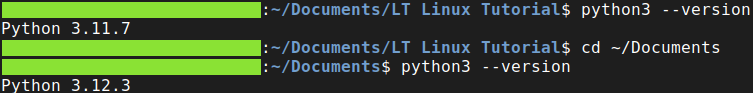
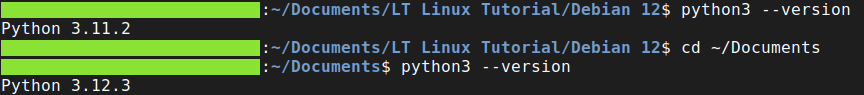
Updated docs to cover new/additional info

Changed region(s): [[0.0, 0.2151, 0.9774, 1.0], [0.0, 0.0215, 1.0, 0.1935]]

diff --git a/docs/source/getting_started/Installation-Linux.md b/docs/source/getting_started/Installation-Linux.md
@@ -23,17 +23,19 @@ Once you've decided where you want the lt-maker repository to live, click on 'Cl
 
 ![GithubDesktop](images/GithubDesktop_CloningFinish.png)
 
-From this screen, you can now also update the engine by clicking the 'Fetch origin' button.
+From this screen, you can now also update the engine by clicking the 'Fetch origin' button, and then pulling the changes. You can also view the changelog by selecting the 'history' tab.
 
->The program may ask for you to sync a github/gitlab account, but this isn't necessary for the use of the software.
+>No github/gitlab account is necessary for the use of this program.
 
 >Make sure the 'Current branch' button always shows the branch name 'master'. Otherwise, you may be running an outdated version that someone used to solve a specific problem or run their own customized lt-maker engine.
 
 ## Installing and setting up the correct Python version for lt-maker
 
-<span style="color: red; font-weight: bold;">LT-maker requires a Python 3.12 environment to work optimally.</span> Most Linux distributions already come with a Python version. Type `python3 --version` in a terminal: if it returns `Python 3.12` and any last number (Linux Mint 22.3 comes with Python 3.12.3, for example), your system's Python will do: skip to [Using your system's Python](#using-your-systems-python).
+><span style="color: red; font-weight: bold;">Important:</span> Certain versions of Linux (primarily Debian, Ubuntu and Ubuntu-based distributions) require that you use `python3` instead of `python` when typing python-based commands. For ease of use, this guide will start all python commands with `python3` going forward. Should this cause errors, you can simply use `python` and mirror the exact commands from there.
 
-Otherwise you need a second Python beside your system's, as you cannot simply replace the one it came with. For this, we can use a tool called 'pyenv'.
+<span style="color: red; font-weight: bold;">LT-maker requires a Python 3.12 environment to work optimally.</span> Most Linux distributions already come with a Python version. Type `python3 --version` in a terminal: if it returns `Python 3.12.##` (Linux Mint 22.3 comes with Python 3.12.3, for example), your system's Python will do: skip to [Using your system's Python](#using-your-systems-python).
+
+Otherwise, you'll need a second Python version. However, you cannot simply replace the one your distribution came with, and running two versions of python unchecked is bound to cause a huge number of issues. In order to solve this problem, we can use a tool called 'pyenv'.
 
 https://github.com/pyenv/pyenv
 
@@ -53,7 +55,7 @@ To make sure your main system is unaffected, open a normal terminal window and t
 
 ![PyTerminalVisual](images/PyTerminalVisual.png)
 
-Now skip to [Installing Pip](#installing-pip).
+You can skip the next paragraph and continue with [Installing Pip](#installing-pip).
 
 ## Using your system's Python
 
@@ -64,7 +66,7 @@ python3 -m venv venv
 source venv/bin/activate
 ```
 
-On Debian, Ubuntu and Mint, the first command may ask you to install the `python3-venv` package first (`sudo apt install python3-venv`). Type `source venv/bin/activate` again in each new terminal window before installing packages or starting LT-maker. In that window, `python3` is then the virtual environment's Python.
+On Debian, Ubuntu or other Ubuntu-based distributions, the first command may ask you to install the `python3-venv` package first (`sudo apt install python3-venv`). Type `source venv/bin/activate` again in each new terminal window before installing packages or starting LT-maker. In that window, `python3` is then the virtual environment's Python, instead of being system-wide. If you did this correctly, every command entry line should start with `(venv)`.
 
 ## Installing Pip
 
@@ -72,11 +74,9 @@ Pip is the Python package manager, and is a requirement for installing the engin
 
 https://pip.pypa.io/en/stable/installation/#
 
->Note that some distributions require you to substitute instructions starting with `python` to `python3` while installing pip.
-
 ## Installing engine dependencies
 
-Next, you need to install some extra dependencies. These can be found in the `requirements_editor.txt` To install them, open a terminal window <span style="color: red; font-weight: bold;">inside of the lt-maker folder</span> and type the following commands:
+Next, you need to install some extra dependencies. These can be found in the `requirements_editor.txt` To install them, open a terminal window <span style="color: red; font-weight: bold;">inside of the lt-maker folder (Don't forget to use `source venv/bin/activate` if you used venv to set the python environment!)</span> and type the following commands:
 
 pygame-ce
 
@@ -91,6 +91,7 @@ python3 -m pip install pyinstaller==6.2.0
 ```
 
 PyQt5
+
 ```
 python3 -m pip install PyQt5==5.15.10
 ```
@@ -101,18 +102,38 @@ If you are using Ubuntu or an Ubuntu-based distribution, and the above PyQt5 com
 sudo apt-get install python3-pyqt5
 ```
 
+It is important to install these dependencies in the virtual environment, because system updates may be able to update them otherwise. If done correctly, they will only update when you specify they should be. The [Lex Talionis Discord Server](https://discord.gg/dC6VWGh4sw) or a terminal error will notify you when these updates are necessary.
+
 ## Launching the engine/editor
 
-Open a terminal window inside of the `lt-maker` folder. Here, type `python3 run_engine.py`. The engine main screen should pop up and you should be able to play the prologue and first five chapters of Sacred Stones.
+Open a terminal window inside of the `lt-maker` folder. Here, type `python3 run_engine.py` (Make sure your venv environment is active if you're using it!). The engine main screen should pop up and you should be able to play the prologue and first five chapters of Sacred Stones.
 
 ![TitleScreen](images/TitleScreen.png)
 
-If that was successful, close the engine. Open a terminal window inside of the `lt-maker` folder and type `python3 run_editor.py`. The editor should pop up and you should be able to begin making your own fangame.
+If that was successful, close the engine. Open a terminal window inside of the `lt-maker` folder and type 
+`python3 run_editor.py` (Make sure your venv environment is active if you're using it!). The editor should pop up and you should be able to begin making your own fangame.
 
 ![EditorScreen](images/EditorScreen.png)
 
-If you wish, you can make a simple boot script by creating a .txt file in the `lt-maker` folder, typing `python3 run_editor.py` and saving it. Give it a creative name so you can find it easily later. Then, right click on the .txt file, and allow it to be executed as a program.
+If you wish, you can make a simple boot script by creating a .sh file in the `lt-maker` folder, so you don't need to manually boot it from the terminal. Depending on your environment setup, this script will differ ever so slightly.
 
->If your file manager asks, it is recommended to run the script in the terminal, as the terminal functions as an output log for the editor. That makes troubleshooting much easier if something goes wrong!
+If you used `pyenv`, type
+```
+python3 run_editor.py
+```
+
+If you used `venv`, type
+```
+#!/bin/bash
+venv_activate="./venv/bin/activate"
+if [ -f "$venv_activate" ]; then
+    source "$venv_activate"
+    python3 run_editor.py
+else
+    echo "The virtual environment was not found. Make sure this script is inside of the 'lt-maker folder'. Also, make sure there is a 'venv' folder inside of the 'lt-maker' folder. If there is not, make sure you set up the virtual environment correctly."
+fi
+```
+
+Save your newly created boot script. Give it a creative name, and place it inside of the `lt-maker` folder. Then, right click on the .sh file, go to its properties, and allow it to be executed as a program. If your file manager asks, it is recommended to run the script in the terminal, as the terminal functions as an output log for the editor. That makes troubleshooting much easier if something goes wrong, like an outdated dependency or a crash!
 
 ![BootScript](images/BootScript.png)

diff --git a/docs/source/guides/setup_tutorials/Helpful-Information-For-Players.md b/docs/source/guides/setup_tutorials/Helpful-Information-For-Players.md
@@ -1,28 +1,31 @@
 # Helpful Information For Players
 
-_last updated 2026-04-01_
+_last updated 2026-10-22_
 
 This guide includes information that may be helpful to new players of LT-Maker games.
 
 ## Default Controls
 ```
-Function   | Keyboard | Mouse | Xbox Controller | PS Controller
-===============================================================
-Select     | X        | Left  | A               | Cross
-Back       | Z        | Right | B               | Circle
-Info       | C        | Middle| X               | Square
-AUX        | A        |       | Back            | Share
-Move       | Arrows   | Hover | Left Stick      | Left Stick
-Start      | S        |       | Start / Y       | Options / Triangle
-Screenshot | ` / F12  |       |                 |
+Function   | Keyboard | Mouse | Xbox Controller   | PS Controller
+=================================================================
+Select     | X        | Left  | A                 | Cross
+Back       | Z        | Right | B                 | Circle
+Info       | C        | Middle| X                 | Square
+AUX        | A        |       | Back              | Share
+Move       | Arrows   | Hover | Left Stick / DPad | Left Stick / DPad
+Start      | S        |       | Start / Y         | Options / Triangle
+Screenshot | ` / F12  |       |                   |
+Speedup    | Tab      |       | Right Stick       | Right Stick
 ```
 * The AUX key is used to focus the cursor on your units when on the map and to toggle the Growth Rate display on the Unit Info Menu.
 
-* Screenshots are saved as .bmp files if the \` key was pressed or .png files if F12 was pressed. Screenshots are saved within the game folder.
+* Screenshots are saved as .bmp files if the ` key was pressed or .png files if F12 was pressed. Screenshots are saved within the game folder.
 
-* You can soft reset by holding Select, Back, and Start.
+* To soft reset, press Select, Back, and Start at the same time.
 
-* You can rebind which key on your keyboard does what in the Options > Controls menu in-game. Controller button remapping has not been implemented yet, although you can use an input remapper to bind controller input to keyboard keys as a workaround.
+* Keys can be rebound in the Options > Controls menu in-game. Controller button remapping is also supported in that same window.
+
+* Mouse controls can be enabled/disabled in the settings menu.
 
 
 ## Known Common Issues
@@ -31,8 +34,4 @@ Screenshot | ` / F12  |       |                 |
 
 * The EXP gain SFX may sound weird on some computers. (The pitch is sound card dependent.) To adjust this, go into saves/config.ini. Change sound_buffer_size to a small even number until the SFX sounds right. Make sure to close the game while editing these settings, and to save the file after editing it.
 
-## Miscellaneous Tips
-* You can change the screen size in-game through: Extras > Options > Config > Screen Size
-    * The full-screen option is wonky and not recommended.
-
-* You can toggle mouse controls in-game through: Extras > Options > Config > Mouse
+* The fullscreen option is not recommended for use. Maximizing the window instead is recommended.

diff --git a/docs/source/guides/setup_tutorials/How-To-Play-LT-Games.md b/docs/source/guides/setup_tutorials/How-To-Play-LT-Games.md
@@ -26,6 +26,9 @@ https://www.winehq.org/
 It is recommended to install Wine manually, as the package distributed by many package managers are outdated. Version 11.0 is known to run LT games in a stable manner. Older versions are untested.
 3. Open "GAMENAME.exe" with Wine.
 
+## ITCH.IO
+LT-games running in a web browser should run natively on all systems. No additional setup is required, though do note the first boot may take 10-20 seconds, due to the browser installing Python.
+
 ## Linux - Build from Source
 NOTE: Most creators will ship the blank .exe engine with their game files attached. If this is the case, you can build the game from source. However, if the creator has included engine hacking in their project, this method WILL NOT WORK. If you are unsure, please contact the developer(s) of the LT game you want to play. If the developer(s) have a native version for linux available for download, you can skip step 3.
 

diff --git a/docs/source/guides/setup_tutorials/index.rst b/docs/source/guides/setup_tutorials/index.rst
@@ -14,4 +14,3 @@ These are guides on how to update specific assets/files in your game folder for 
    How-To-Play-LT-Games
    Helpful-Information-For-Players
    Carry-Over-Save-Files
-   Build-For-Web

diff --git a/docs/source/getting_started/index.rst b/docs/source/getting_started/index.rst
@@ -12,3 +12,4 @@ lt-maker is a thing.
     Installation-Linux
     making-a-basic-map
     Build-Engine
+    Build-For-Web
